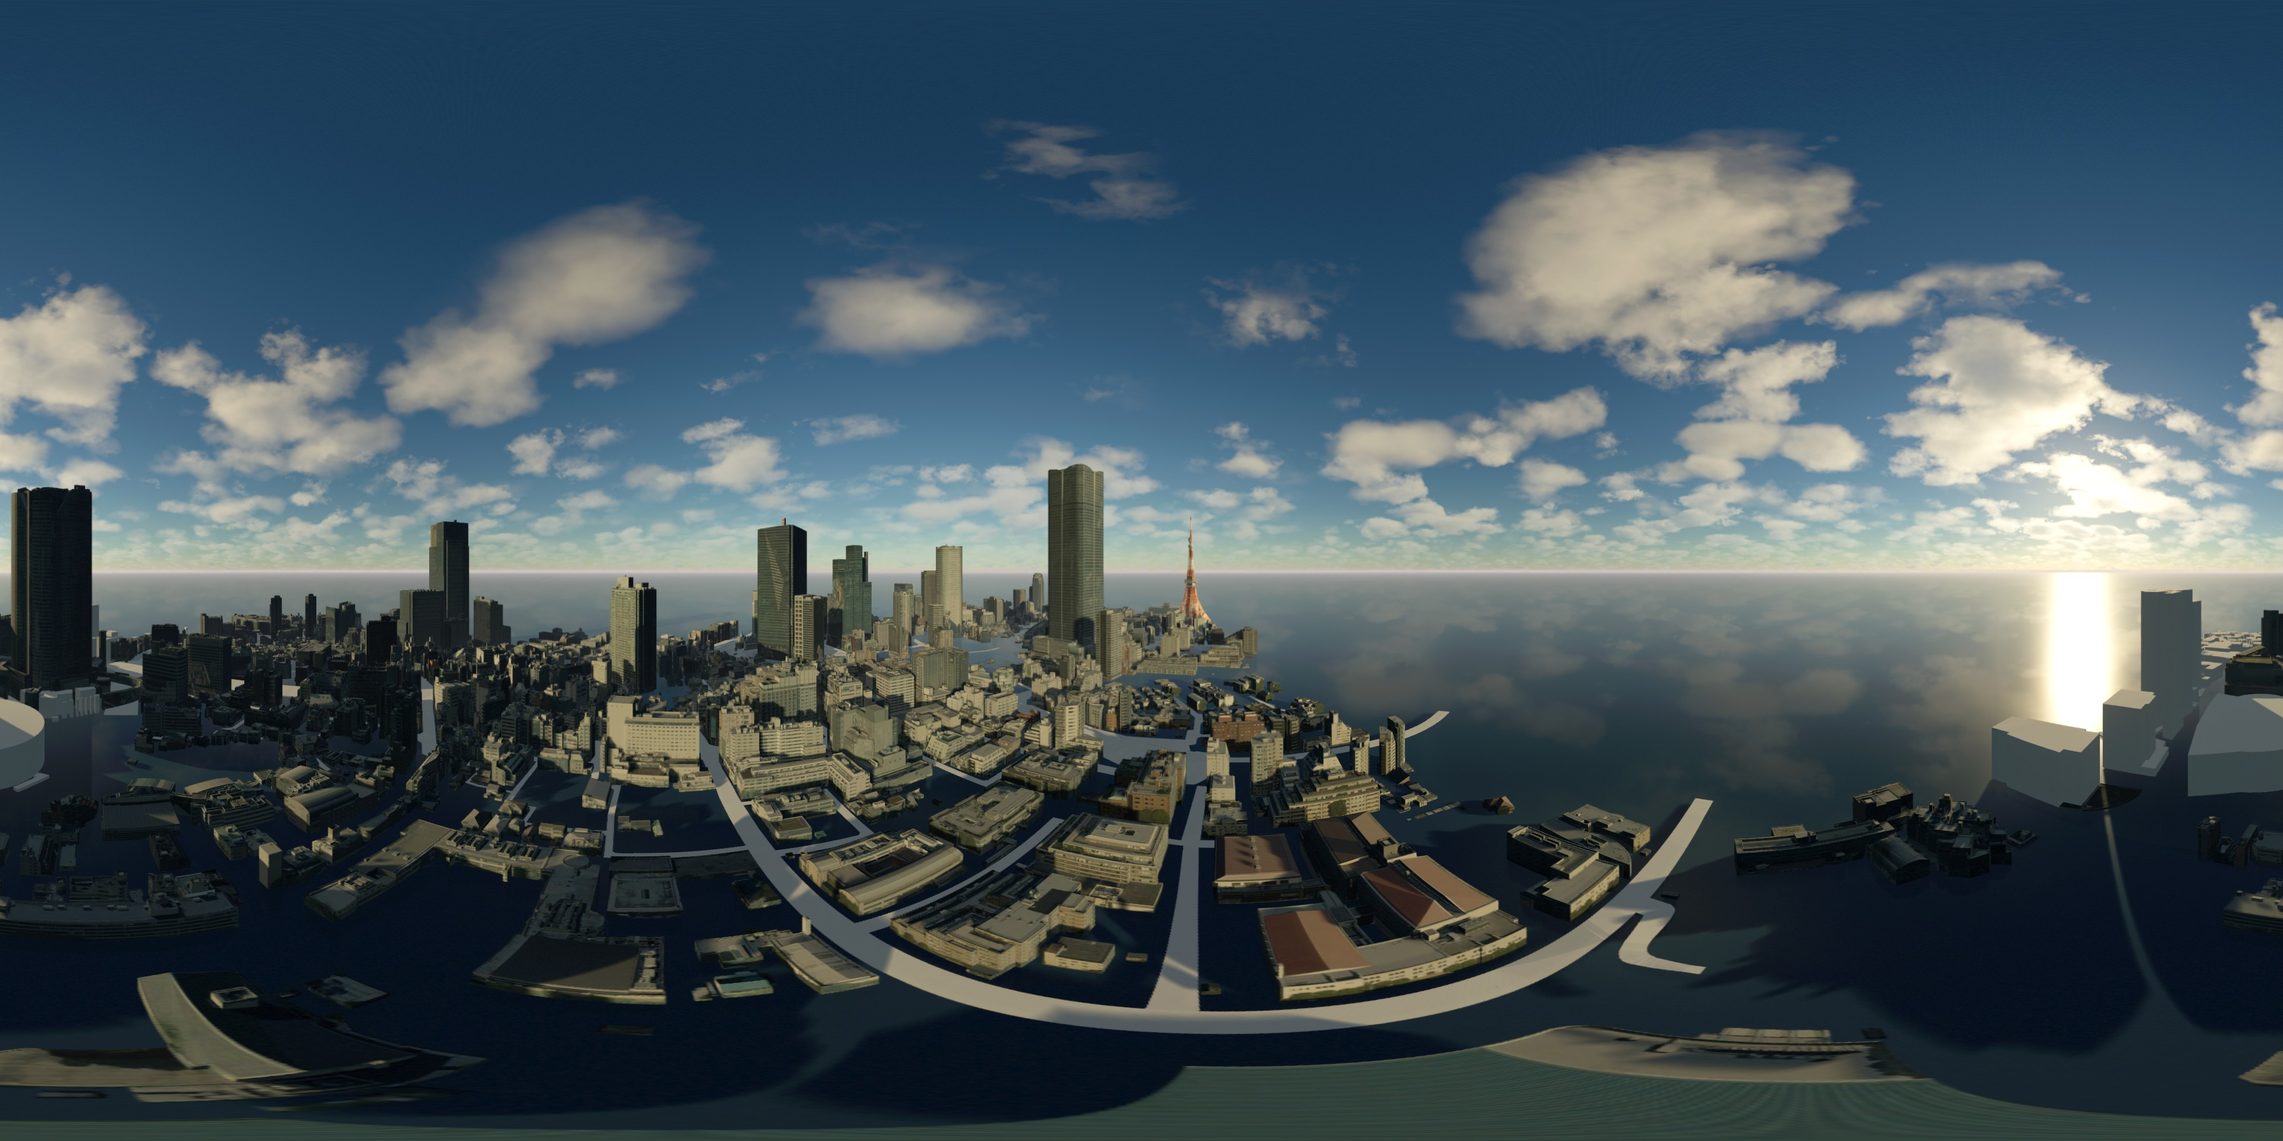
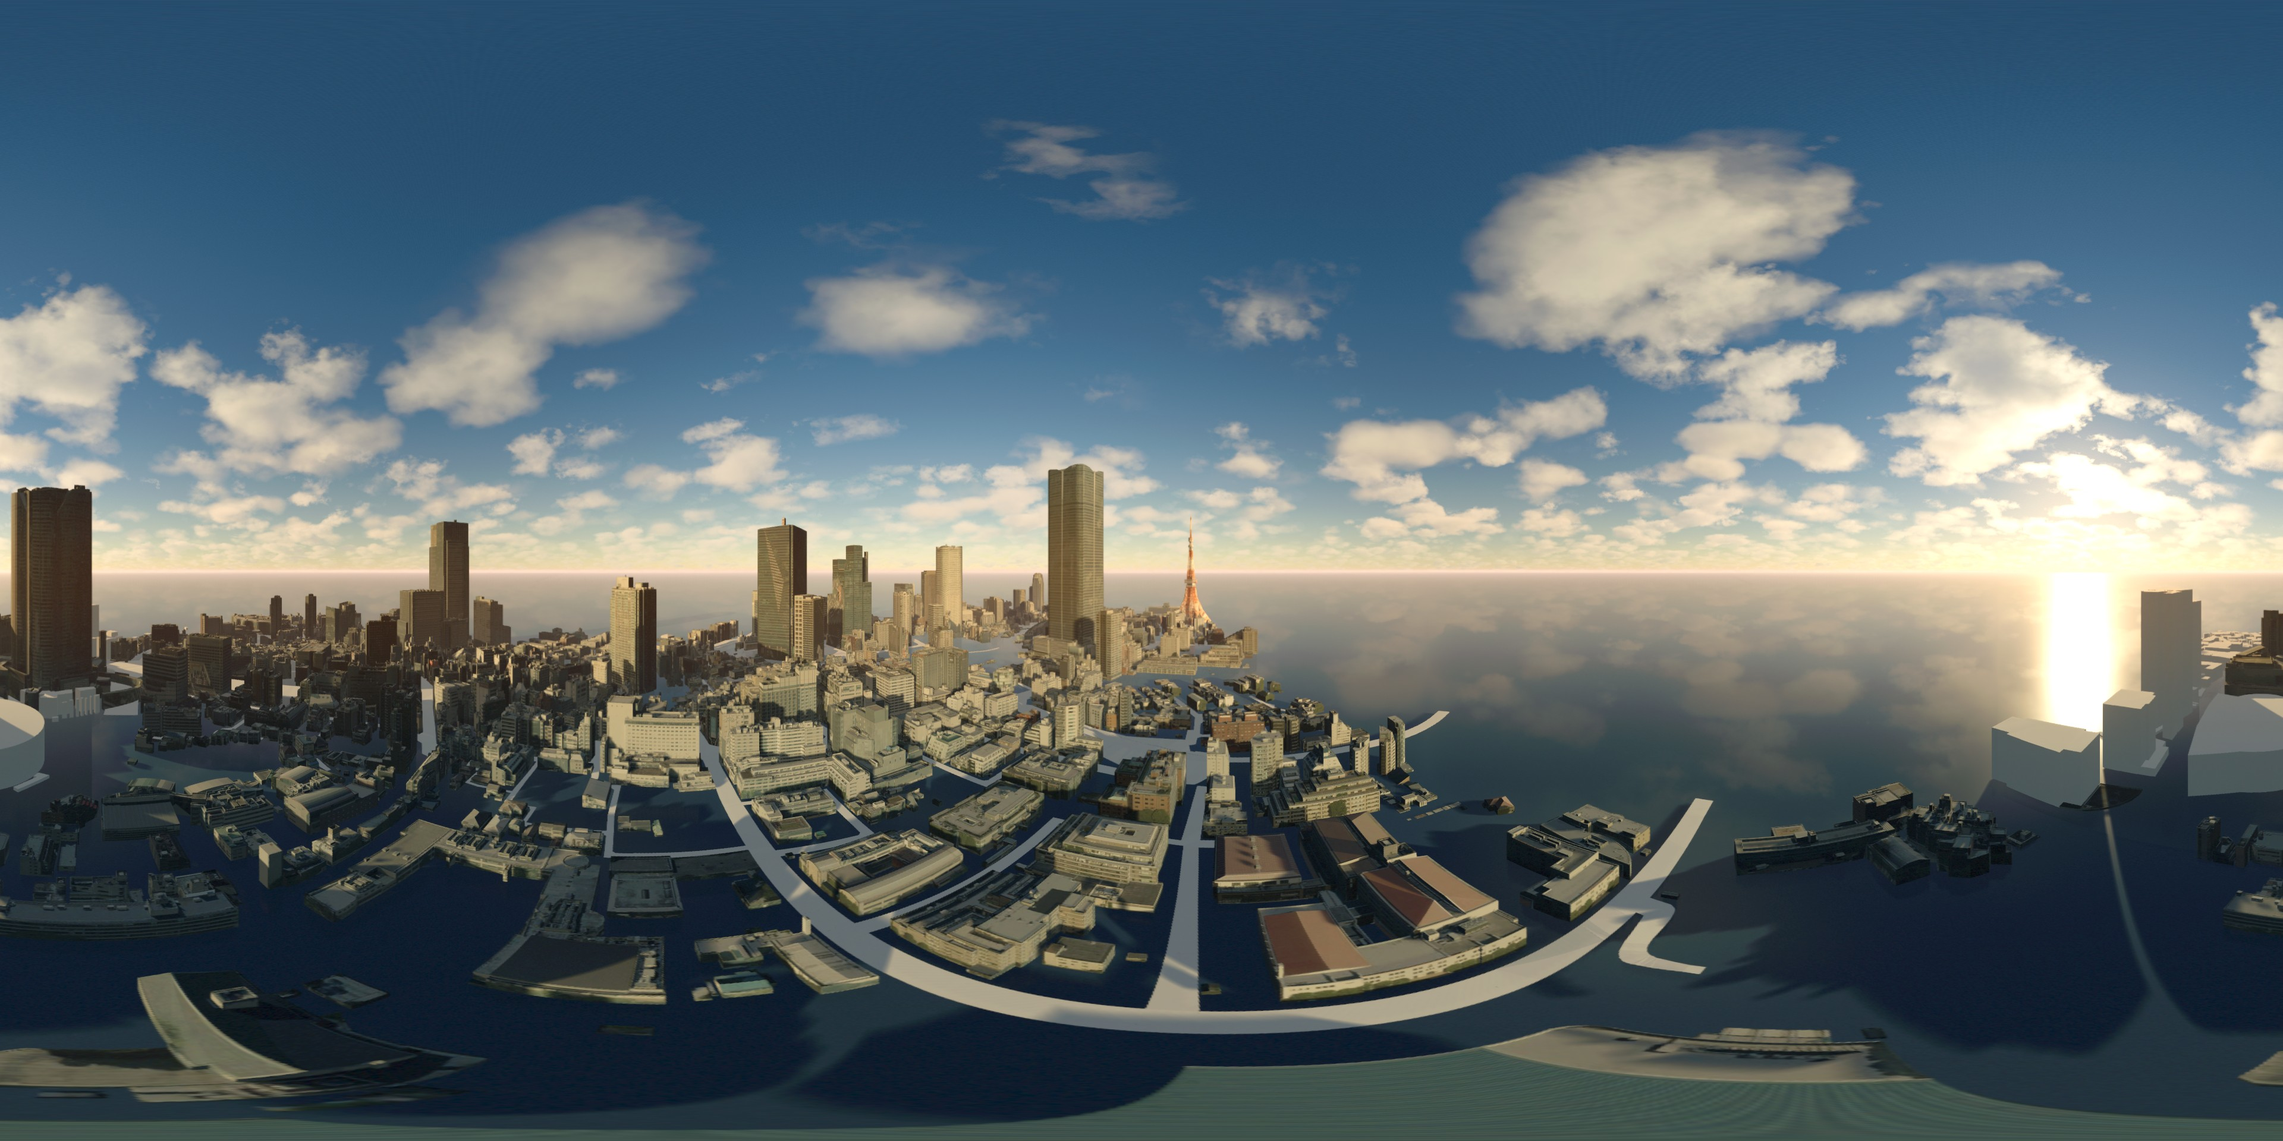
Upgrade 3D walkthrough: bright daylight default + 1-tap Day/Sunset/Tokyo Night View switcher

Changed region(s): [[0.0, 0.3438, 1.0, 0.6875]]

diff --git a/index.html b/index.html
@@ -328,14 +328,14 @@
       width: 100%;
       height: 100%;
       object-fit: cover;
-      filter: brightness(0.84) contrast(1.04);
+      filter: brightness(0.95) contrast(1.03);
     }
     .hero-scrim {
       position: absolute;
       inset: 0;
       background:
-        linear-gradient(180deg, rgba(8, 10, 14, 0.58) 0%, rgba(8, 10, 14, 0.18) 38%, rgba(8, 10, 14, 0.76) 82%, #0a0c10 100%),
-        linear-gradient(90deg, rgba(8, 10, 14, 0.72) 0%, rgba(8, 10, 14, 0.25) 55%, rgba(8, 10, 14, 0.12) 100%);
+        linear-gradient(180deg, rgba(8, 10, 14, 0.44) 0%, rgba(8, 10, 14, 0.12) 40%, rgba(8, 10, 14, 0.72) 84%, #0a0c10 100%),
+        linear-gradient(90deg, rgba(8, 10, 14, 0.64) 0%, rgba(8, 10, 14, 0.20) 55%, rgba(8, 10, 14, 0.08) 100%);
     }
     .hero-content {
       position: relative;
@@ -814,6 +814,53 @@
       font-size: 12px;
       letter-spacing: 0.06em;
     }
+    .hud-right {
+      pointer-events: auto;
+      display: flex;
+      align-items: center;
+      gap: 8px;
+      flex-shrink: 0;
+    }
+    #btnTourFs {
+      background: rgba(10, 13, 20, 0.86);
+      backdrop-filter: blur(10px);
+      border-color: rgba(201, 165, 102, 0.48);
+      color: var(--ink-light);
+    }
+    .time-switch {
+      display: inline-flex;
+      align-items: center;
+      gap: 3px;
+      background: rgba(10, 13, 20, 0.86);
+      backdrop-filter: blur(10px);
+      border: 1px solid rgba(201, 165, 102, 0.48);
+      padding: 3px;
+      border-radius: 999px;
+    }
+    .time-btn {
+      background: transparent;
+      color: rgba(246, 243, 236, 0.84);
+      border: none;
+      padding: 5px 11px;
+      border-radius: 999px;
+      font-size: 12px;
+      font-weight: 500;
+      letter-spacing: 0.04em;
+      white-space: nowrap;
+      transition: all 0.22s var(--ease);
+    }
+    .time-btn:hover { color: #fff; background: rgba(255, 255, 255, 0.08); }
+    .time-btn.active {
+      background: var(--gold);
+      color: #111318;
+      font-weight: 700;
+      box-shadow: 0 2px 10px rgba(201, 165, 102, 0.42);
+    }
+    .time-btn[data-sky="night"].active {
+      background: linear-gradient(135deg, #273c75 0%, #4b6cb7 100%);
+      color: #fff6df;
+      box-shadow: 0 2px 12px rgba(75, 108, 183, 0.55);
+    }
     .tour3d-controls {
       position: absolute;
       left: 50%;
@@ -1208,7 +1255,10 @@
         gap: 5px;
       }
       .t3-btn { padding: 7px 10px; font-size: 11.5px; min-height: 34px; }
-      .tour3d-pill { font-size: 10.5px; padding: 5px 10px; max-width: 72%; overflow: hidden; text-overflow: ellipsis; white-space: nowrap; }
+      .tour3d-hud-top { flex-wrap: wrap; gap: 6px; top: 10px; left: 10px; right: 10px; }
+      .tour3d-pill { font-size: 10.5px; padding: 5px 10px; max-width: 100%; overflow: hidden; text-overflow: ellipsis; white-space: nowrap; }
+      .hud-right { width: 100%; justify-content: space-between; }
+      .time-btn { padding: 5px 9px; font-size: 11px; }
       .room-list { grid-template-columns: repeat(2, minmax(0, 1fr)); gap: 8px; }
       .room-btn { grid-template-columns: 1fr; padding: 8px; gap: 6px; }
       .room-btn img { width: 100%; height: 64px; }
@@ -1556,8 +1606,8 @@
         <div>
           <span class="sec-kicker">05 &nbsp; REAL-TIME 3D MODEL VIEWING</span>
           <h2 class="sec-title" style="margin-bottom:8px;">実3Dモデル歩行内覧 ＆ PLATEAU 3D街並みシミュレーター</h2>
-          <p class="theater-note" style="max-width:660px;">
-            静止画ではなく、<strong>41Fペントハウスの3Dモデル本体（GLB）</strong>の中をリアルタイムに歩いて移動できます。1本指ドラッグで360°見回し、2本指ピンチ／ホイールで滑らかズーム、前進・後退や間取り図タップで室内〜テラスまで自由に内覧できます。窓の外はUE 5.5×PLATEAU 2025の実レンダリング港区実景です。
+          <p class="theater-note" style="max-width:680px;">
+            静止画ではなく、<strong>41Fペントハウスの3Dモデル本体（GLB）</strong>の中をリアルタイムに歩いて移動できます。右上のボタンから<strong>「☀ 昼（晴天）・🌆 夕景・🌃 東京夜景」</strong>をワンタップ切替でき、室内の照明・反射と窓外のUE 5.5×PLATEAU 2025港区実景が同時に切り替わります。
           </p>
         </div>
         <div class="tour3d-tabs" role="tablist">
@@ -1581,8 +1631,15 @@
           </div>
 
           <div class="tour3d-hud-top">
-            <span class="tour3d-pill" id="tour3dStatus">01. リビング全景 — ドラッグで見回し・ピンチ／ボタンでズーム＆歩行</span>
-            <button class="t3-btn" id="btnTourFs" type="button">全画面</button>
+            <span class="tour3d-pill" id="tour3dStatus">01. リビング全景［昼（晴天）］— ドラッグで見回し・ピンチでズーム</span>
+            <div class="hud-right">
+              <div class="time-switch" id="timeSwitch" role="group" aria-label="時間帯・夜景切替">
+                <button class="time-btn active" data-sky="day" type="button">☀ 昼</button>
+                <button class="time-btn" data-sky="sunset" type="button">🌆 夕景</button>
+                <button class="time-btn" data-sky="night" type="button">🌃 夜景</button>
+              </div>
+              <button class="t3-btn" id="btnTourFs" type="button">全画面</button>
+            </div>
           </div>
 
           <!-- Mobile-Friendly Walk & Zoom Controls for Real 3D Model -->
@@ -1601,8 +1658,9 @@
             <button class="t3-btn" data-city-cam="f15" type="button">15F 眺望</button>
             <button class="t3-btn" data-city-cam="f28" type="button">28F 眺望</button>
             <button class="t3-btn" data-city-cam="f41" type="button">41F 東京タワー正面</button>
-            <button class="t3-btn active" data-city-time="13" type="button">昼景</button>
-            <button class="t3-btn" data-city-time="17" type="button">夕景</button>
+            <button class="t3-btn active" data-city-time="13" type="button">☀ 昼景</button>
+            <button class="t3-btn" data-city-time="17" type="button">🌆 夕景</button>
+            <button class="t3-btn" data-city-time="20" type="button">🌃 夜景</button>
           </div>
         </div>
 
@@ -2064,6 +2122,37 @@
 
       let tourMode = "indoor";
       let curRoom = "living";
+      let curTimeOfDay = "day";
+      const TIME_PRESETS = {
+        day: {
+          url: "assets/skybox_minato_41f_day.jpg?v=4",
+          label: "昼（晴天）",
+          exposure: 1.16,
+          hemiSky: 0xffffff, hemiGnd: 0x857d70, hemiInt: 0.90,
+          sunCol: 0xfff8ee, sunInt: 1.90, sunPos: [-10, 18, 12],
+          fillCol: 0xebf5ff, fillInt: 0.52,
+          pts: [0.80, 0.80, 0.72, 0.55, 0.40]
+        },
+        sunset: {
+          url: "assets/skybox_minato_41f_ue5.jpg?v=4",
+          label: "夕景",
+          exposure: 1.00,
+          hemiSky: 0xffe8cc, hemiGnd: 0x382e24, hemiInt: 0.58,
+          sunCol: 0xffcf92, sunInt: 1.45, sunPos: [-14, 11, 10],
+          fillCol: 0xffd7a4, fillInt: 0.34,
+          pts: [1.50, 1.40, 1.30, 1.50, 0.80]
+        },
+        night: {
+          url: "assets/skybox_minato_41f_night.jpg?v=4",
+          label: "東京夜景",
+          exposure: 0.86,
+          hemiSky: 0x2a3f72, hemiGnd: 0x16120e, hemiInt: 0.30,
+          sunCol: 0x5c7ec4, sunInt: 0.24, sunPos: [-10, 14, 8],
+          fillCol: 0x3b5896, fillInt: 0.20,
+          pts: [1.85, 1.75, 1.65, 2.25, 1.15]
+        }
+      };
+
       const camPos = { x: -2.4, y: 1.56, z: 1.4 };
       const tgtPos = { x: -2.4, y: 1.56, z: 1.4 };
       let pYaw = 76, pPitch = -4, pFov = 62;
@@ -2072,6 +2161,9 @@
       const autoOrder = ["living", "window", "terrace", "dining", "kitchen"];
 
       let pRenderer = null, pScene = null, pCam = null;
+      let pHemi = null, pSun = null, pFill = null, pSkyDome = null, pPmrem = null, pTexLoader = null;
+      const pPointLights = [];
+      const skyCache = {};
       const activePointers = new Map();
       let pinchStartDist = 0, pinchStartFov = 62;
       let pDragging = false, pLastX = 0, pLastY = 0;
@@ -2085,6 +2177,69 @@
       const stageLoader = document.getElementById("stageLoader");
       const stageLoaderText = document.getElementById("stageLoaderText");
       const zoomReadout = document.getElementById("zoomReadout");
+      const timeSwitch = document.getElementById("timeSwitch");
+
+      function updateTourStatus() {
+        const wp = WAYPOINTS[curRoom];
+        const tp = TIME_PRESETS[curTimeOfDay] || TIME_PRESETS.day;
+        if (wp && tour3dStatus) {
+          tour3dStatus.textContent = `${wp.name}［${tp.label}］— ドラッグで見回し・ピンチでズーム`;
+        }
+      }
+
+      function loadSkyPreset(key, onReady) {
+        if (skyCache[key]) {
+          if (onReady) onReady(skyCache[key]);
+          return;
+        }
+        const preset = TIME_PRESETS[key];
+        if (!preset || !pTexLoader) return;
+        pTexLoader.load(preset.url, (skyTex) => {
+          skyTex.encoding = THREE.sRGBEncoding;
+          skyTex.mapping = THREE.EquirectangularReflectionMapping;
+          const envTex = pPmrem ? pPmrem.fromEquirectangular(skyTex).texture : null;
+          skyCache[key] = { tex: skyTex, env: envTex };
+          if (onReady) onReady(skyCache[key]);
+        });
+      }
+
+      function applyTimeOfDay(key) {
+        const preset = TIME_PRESETS[key];
+        if (!preset || !pRenderer || !pScene) return;
+        curTimeOfDay = key;
+        document.querySelectorAll("#timeSwitch .time-btn").forEach((b) => {
+          b.classList.toggle("active", b.dataset.sky === key);
+        });
+
+        pRenderer.toneMappingExposure = preset.exposure;
+        if (pHemi) {
+          pHemi.color.setHex(preset.hemiSky);
+          pHemi.groundColor.setHex(preset.hemiGnd);
+          pHemi.intensity = preset.hemiInt;
+        }
+        if (pSun) {
+          pSun.color.setHex(preset.sunCol);
+          pSun.intensity = preset.sunInt;
+          pSun.position.set(preset.sunPos[0], preset.sunPos[1], preset.sunPos[2]);
+        }
+        if (pFill) {
+          pFill.color.setHex(preset.fillCol);
+          pFill.intensity = preset.fillInt;
+        }
+        pPointLights.forEach((pl, idx) => {
+          if (preset.pts[idx] !== undefined) pl.intensity = preset.pts[idx];
+        });
+
+        loadSkyPreset(key, (entry) => {
+          if (curTimeOfDay !== key) return;
+          if (pSkyDome) {
+            pSkyDome.material.map = entry.tex;
+            pSkyDome.material.needsUpdate = true;
+          }
+          if (entry.env) pScene.environment = entry.env;
+        });
+        updateTourStatus();
+      }
 
       function clampWalkPos(x, z) {
         return {
@@ -2126,60 +2281,72 @@
         pRenderer.setPixelRatio(Math.min(window.devicePixelRatio || 1, 1.75));
         pRenderer.outputEncoding = THREE.sRGBEncoding;
         pRenderer.toneMapping = THREE.ACESFilmicToneMapping;
-        pRenderer.toneMappingExposure = 0.94;
+        pRenderer.toneMappingExposure = TIME_PRESETS.day.exposure;
         pRenderer.shadowMap.enabled = true;
         pRenderer.shadowMap.type = THREE.PCFSoftShadowMap;
         panoStage.appendChild(pRenderer.domElement);
 
-        // Rich moody Aman-Tokyo Luxury Architectural Lighting (matches UE 5.5 Lumen Golden Hour)
-        const hemi = new THREE.HemisphereLight(0xffe8cc, 0x24201b, 0.46);
-        pScene.add(hemi);
+        // Dynamic Architectural Lighting (syncs seamlessly across Day / Sunset / Tokyo Night!)
+        pHemi = new THREE.HemisphereLight(TIME_PRESETS.day.hemiSky, TIME_PRESETS.day.hemiGnd, TIME_PRESETS.day.hemiInt);
+        pScene.add(pHemi);
 
-        const sun = new THREE.DirectionalLight(0xffd29a, 1.35);
-        sun.position.set(-14, 12, 10);
-        sun.castShadow = true;
-        sun.shadow.mapSize.set(2048, 2048);
-        sun.shadow.camera.near = 1;
-        sun.shadow.camera.far = 45;
-        sun.shadow.camera.left = -12;
-        sun.shadow.camera.right = 12;
-        sun.shadow.camera.top = 12;
-        sun.shadow.camera.bottom = -12;
-        sun.shadow.bias = -0.0005;
-        pScene.add(sun);
+        pSun = new THREE.DirectionalLight(TIME_PRESETS.day.sunCol, TIME_PRESETS.day.sunInt);
+        pSun.position.set(-10, 18, 12);
+        pSun.castShadow = true;
+        pSun.shadow.mapSize.set(2048, 2048);
+        pSun.shadow.camera.near = 1;
+        pSun.shadow.camera.far = 45;
+        pSun.shadow.camera.left = -12;
+        pSun.shadow.camera.right = 12;
+        pSun.shadow.camera.top = 12;
+        pSun.shadow.camera.bottom = -12;
+        pSun.shadow.bias = -0.0005;
+        pScene.add(pSun);
+
+        // Natural bounce daylight entering through the 16m East panoramic glass wall
+        pFill = new THREE.DirectionalLight(TIME_PRESETS.day.fillCol, TIME_PRESETS.day.fillInt);
+        pFill.position.set(14, 10, -3);
+        pScene.add(pFill);
 
         const interiorLights = [
-          [0.85, 2.65,  0.15, 0xffd79e, 1.55, 12], // Living brass ring chandelier
-          [-1.45, 2.35, -5.80, 0xffdfa8, 1.45, 11], // Kitchen marble island pendant
-          [2.35, 2.35, -5.80, 0xffd79e, 1.35, 11],  // Dining walnut pendant
-          [1.60, 0.90,  5.95, 0xff7a28, 1.40, 8],   // Linear fireplace warm glow
-          [5.90, 2.85,  0.00, 0xffe0b5, 0.75, 10]   // Sky terrace canopy glow
+          [0.85, 2.65,  0.15, 0xffd79e, 0.95, 13], // Living brass ring chandelier
+          [-1.45, 2.35, -5.80, 0xffdfa8, 0.95, 12], // Kitchen marble island pendant
+          [2.35, 2.35, -5.80, 0xffd79e, 0.85, 12],  // Dining walnut pendant
+          [1.60, 0.90,  5.95, 0xff7a28, 0.65, 9],   // Linear fireplace warm glow
+          [5.90, 2.85,  0.00, 0xffe0b5, 0.45, 11]   // Sky terrace canopy glow
         ];
         interiorLights.forEach(([x, y, z, col, inten, dist]) => {
-          const pl = new THREE.PointLight(col, inten, dist, 1.6);
+          const pl = new THREE.PointLight(col, inten, dist, 1.5);
           pl.position.set(x, y, z);
           pScene.add(pl);
+          pPointLights.push(pl);
         });
 
-        // 1. Load REAL UE 5.5 2025 PLATEAU Minato-ku 360° Skybox (bright daylight toneMapped:false sky dome + PMREM reflections!)
-        const pmrem = new THREE.PMREMGenerator(pRenderer);
-        pmrem.compileEquirectangularShader();
-        const texLoader = new THREE.TextureLoader();
-        texLoader.load("assets/skybox_minato_41f_ue5.jpg?v=bright2", (skyTex) => {
-          skyTex.encoding = THREE.sRGBEncoding;
-          skyTex.mapping = THREE.EquirectangularReflectionMapping;
-          // Render outdoor skyline on an un-darkened sky sphere aligned identically to +X East (Tokyo Tower!)
-          const skyGeo = new THREE.SphereGeometry(180, 64, 40);
-          skyGeo.scale(-1, 1, 1);
-          const skyMat = new THREE.MeshBasicMaterial({ map: skyTex, toneMapped: false, depthWrite: false });
-          const skyDome = new THREE.Mesh(skyGeo, skyMat);
-          // After scale(-1,1,1), rotate Y by PI so u=0.5 (Azabudai Hills & Tokyo Tower) faces +X East dead-center!
-          skyDome.rotation.y = Math.PI;
-          pScene.add(skyDome);
-          pScene.environment = pmrem.fromEquirectangular(skyTex).texture;
-          pmrem.dispose();
+        // 1. REAL UE 5.5 2025 PLATEAU Minato-ku 360° SkyDome (Day / Sunset / Tokyo Night instant switcher!)
+        pPmrem = new THREE.PMREMGenerator(pRenderer);
+        pPmrem.compileEquirectangularShader();
+        pTexLoader = new THREE.TextureLoader();
+        const skyGeo = new THREE.SphereGeometry(180, 64, 40);
+        skyGeo.scale(-1, 1, 1);
+        const skyMat = new THREE.MeshBasicMaterial({ color: 0xffffff, toneMapped: false, depthWrite: false });
+        pSkyDome = new THREE.Mesh(skyGeo, skyMat);
+        // After scale(-1,1,1), rotate Y by PI so u=0.5 (Azabudai Hills & Tokyo Tower) faces +X East dead-center!
+        pSkyDome.rotation.y = Math.PI;
+        pScene.add(pSkyDome);
+
+        loadSkyPreset("day", (entry) => {
+          if (curTimeOfDay === "day") {
+            pSkyDome.material.map = entry.tex;
+            pSkyDome.material.needsUpdate = true;
+            if (entry.env) pScene.environment = entry.env;
+          }
           loadProgress.sky = 100;
-          updatePageLoader("港区3D実景スカイボックス適用完了...");
+          updatePageLoader("港区3D実景（昼・夕景・夜景）準備完了...");
+          // Silently preload Night & Sunset skyboxes so 1-tap switching is instant with zero flicker!
+          setTimeout(() => {
+            loadSkyPreset("night");
+            loadSkyPreset("sunset");
+          }, 600);
         });
 
         // 2. Load REAL 3D 41F Penthouse GLB Mesh!
@@ -2325,7 +2492,7 @@
         pTargetPitch = wp.pitch;
         pTargetFov = wp.fov;
         updateZoomUI();
-        tour3dStatus.textContent = `${wp.name} — ドラッグで見回し・ピンチ／ボタンでズーム＆歩行`;
+        updateTourStatus();
         document.querySelectorAll("#roomList .room-btn").forEach((b) => {
           b.classList.toggle("active", b.dataset.room === roomKey);
         });
@@ -2435,7 +2602,10 @@
         }
       }
 
-      // Room, Floorplan, Walk & Zoom bindings
+      // Room, Floorplan, Time-of-Day, Walk & Zoom bindings
+      document.querySelectorAll("#timeSwitch .time-btn").forEach((btn) => {
+        btn.addEventListener("click", () => applyTimeOfDay(btn.dataset.sky));
+      });
       document.querySelectorAll("#roomList .room-btn").forEach((btn) => {
         btn.addEventListener("click", () => { stopAutoTour(); goWaypoint(btn.dataset.room); });
       });
@@ -2576,9 +2746,10 @@
         cityStage.classList.toggle("hidden", isIndoor);
         document.getElementById("controlsIndoor").style.display = isIndoor ? "flex" : "none";
         document.getElementById("controlsCity").style.display = isIndoor ? "none" : "flex";
+        if (timeSwitch) timeSwitch.style.display = isIndoor ? "inline-flex" : "none";
         if (isIndoor) {
           stageLoader.classList.add("hidden");
-          tour3dStatus.textContent = `${WAYPOINTS[curRoom].name} — ドラッグで見回し・ピンチ／ボタンでズーム＆歩行`;
+          updateTourStatus();
         } else {
           initCity3D();
         }
